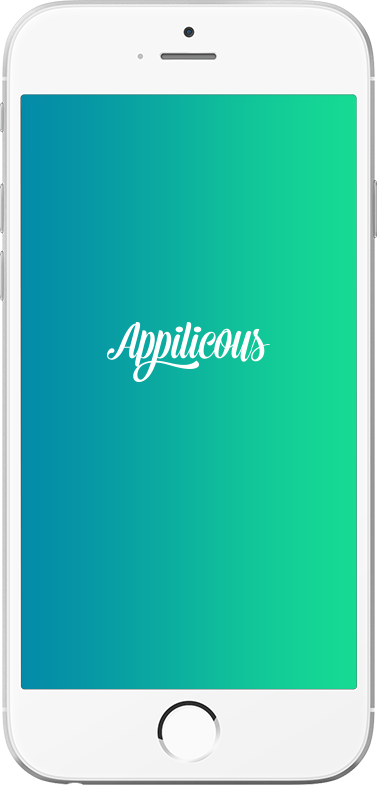
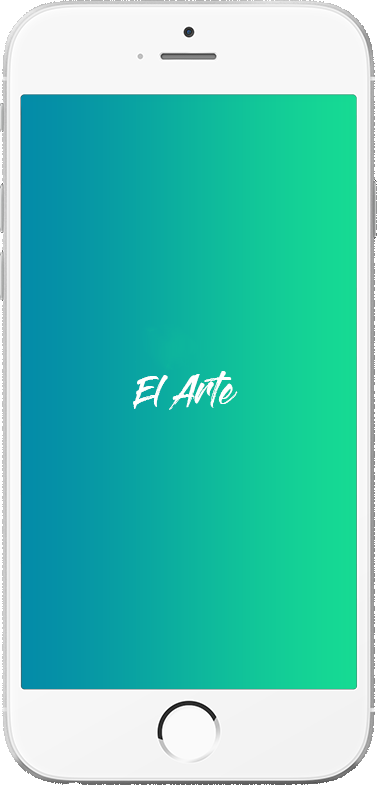
All the markup

Changed region(s): [[0.2918, 0.3975, 0.7003, 0.5197], [0.992, 0.2752, 1.0, 0.9172], [0.992, 0.0917, 1.0, 0.2446]]

diff --git a/index.html b/index.html
@@ -1,0 +1,128 @@
+<!doctype html>
+<html>
+  <head>
+    <meta charset="utf-8">
+    <meta name="viewport" content="width=device-width,
+    initial scale=1">
+    <title>El Arte | Arte</title>
+    <link href="css/main.css" rel="stylesheet">
+  </head>
+
+  <body>
+<!--===========header=============-->
+    <header class="main-header">
+      <div class="container grid">
+        <div class="logo col"><img src="img/logo.svg"
+           alt="El Arte"></div>
+        <nav class="main-nav col">
+          <ul class="unstyled-list">
+            <li><a href="">Home</a></li>
+            <li><a href="">About</a></li>
+            <li><a href="">Blog</a></li>
+            <li><a href="">Pricing</a></li>
+            <li><a href="">Contacts</a></li>
+        </nav>
+      </div>
+    </header>
+<!--==========hero==area============-->
+    <section class="hero">
+      <div class="container grid">
+        <div class="hero-text col">
+          <h1 class="title-large"><span>Getting started with
+          </span>El Arte</h1>
+            <p class="intro">El Arte is a Spanish word which when
+            translated into English means The Art. El Arte is a
+            place where you will find a collection of drawings
+            and paintings.</p>
+            <a href="" class="btn btn--secondary">Learn More</a>
+            <a href="" class="btn btn--primary">Check All</a>
+        </div>
+        <div class="col">
+          <img src="img/phone.png" alt="" class="hero-img"
+        </div>
+      </div>
+    </section>
+
+    <section class="sales-points">
+      <div class="container grid">
+        <h1>Connect using Social</h1>
+
+        <div class="sales-point col">
+          <img src="img/sales-responsive.png" alt="">
+          <h2></h2>
+          <p></p>
+        </div>
+        <div class="sales-point col">
+          <img src="img/sales-hand.png" alt="">
+          <h2></h2>
+          <p></p>
+        </div>
+        <div class="sales-point col">
+          <img src="img/sales-graph.png" alt="">
+          <h2></h2>
+          <p></p>
+        </div>
+
+      </div>
+    </section>
+
+<!--Promo Section-->
+    <section class="promo">
+      <div class="grid">
+
+        <div class="title-box">
+          <h1>The Website is Amazing</h1>
+          <p>A collection of fine arts and paintings</p>
+        </div>
+
+        <div class="col">
+          <h1>Doing great things for you</h1>
+          <h2>Website coming soon</h2>
+          <p>The website would consist a collection of
+          painting and drawings. All you need is to register
+          and unlock the vault.</p>
+          <a href="" btn="btn btn--primary">Browse the Blog</a>
+        </div>
+        <div class="col img-box">
+          <img src="img/phone-in-hand.jpg" alt="">
+        </div>
+      </div>
+    </section>
+
+
+    <section class="cta">
+      <p class="text-large">Would to like to increase the views of
+        my blog?</p>
+      <h1 class="title-large">showcase the greatness today</h1>
+      <a href="" class="btn btn--primary">Browse the Blog</a>
+    </section>
+
+<!--footer-->
+
+    <footer>
+      <div class="container">
+        <p>Be a part of the it</p>
+        <ul class="unstyled-list social-links">
+          <li><a href=""></a><i class="fa fa-twitter-square">
+          </i></li>
+          <li><a href=""></a><i class="fa fa-instagram">
+          </i></li>
+          <li><a href=""></a><i class="fa fa-facebook-square"
+            ></i></li>
+          <li><a href=""></a><i class="fa fa-youtube-square">
+          </i></li>
+        </ul>
+      </div>
+
+      <ul class="unstyled-list nav-footer">
+        <li><a href="">Home</a></li>
+        <li><a href="">About</a></li>
+        <li><a href="">Blog</a></li>
+        <li><a href="">Pricing</a></li>
+        <li><a href="">Contacts</a></li>
+      </ul>
+    </footer>
+    <script
+    src="https://use.fontawesome.com/97974f9c24.js"></script>
+  </body>
+</html>
